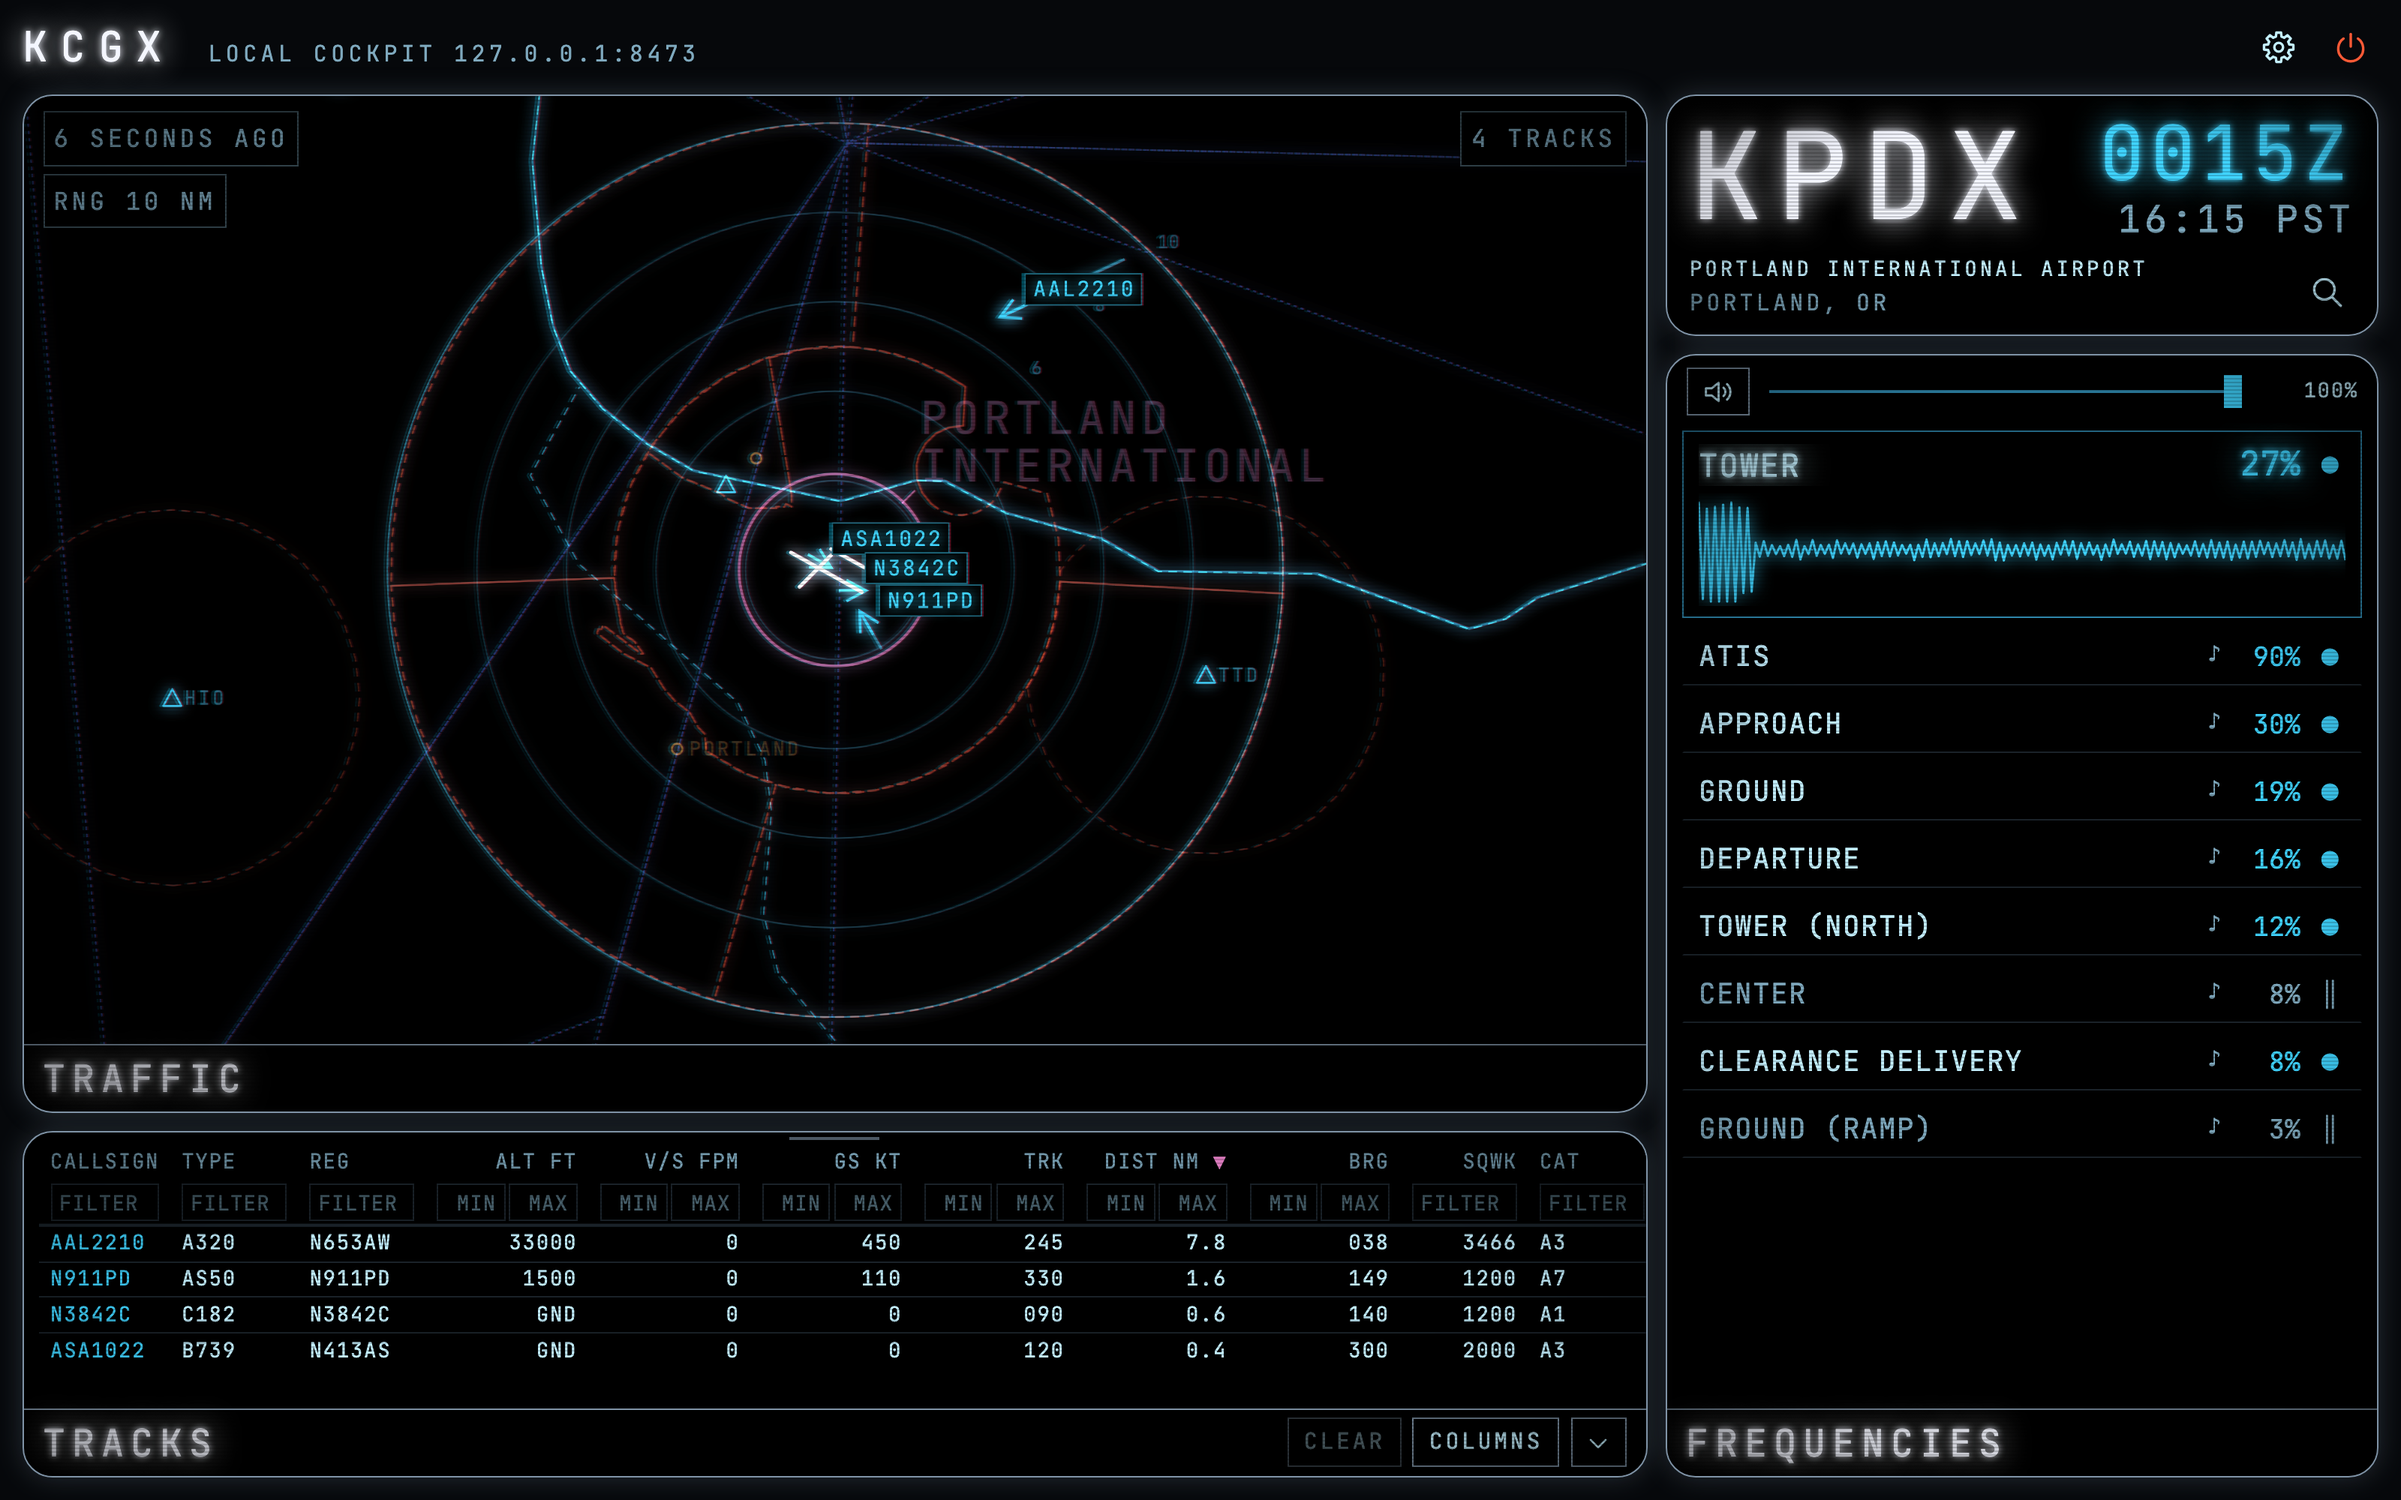
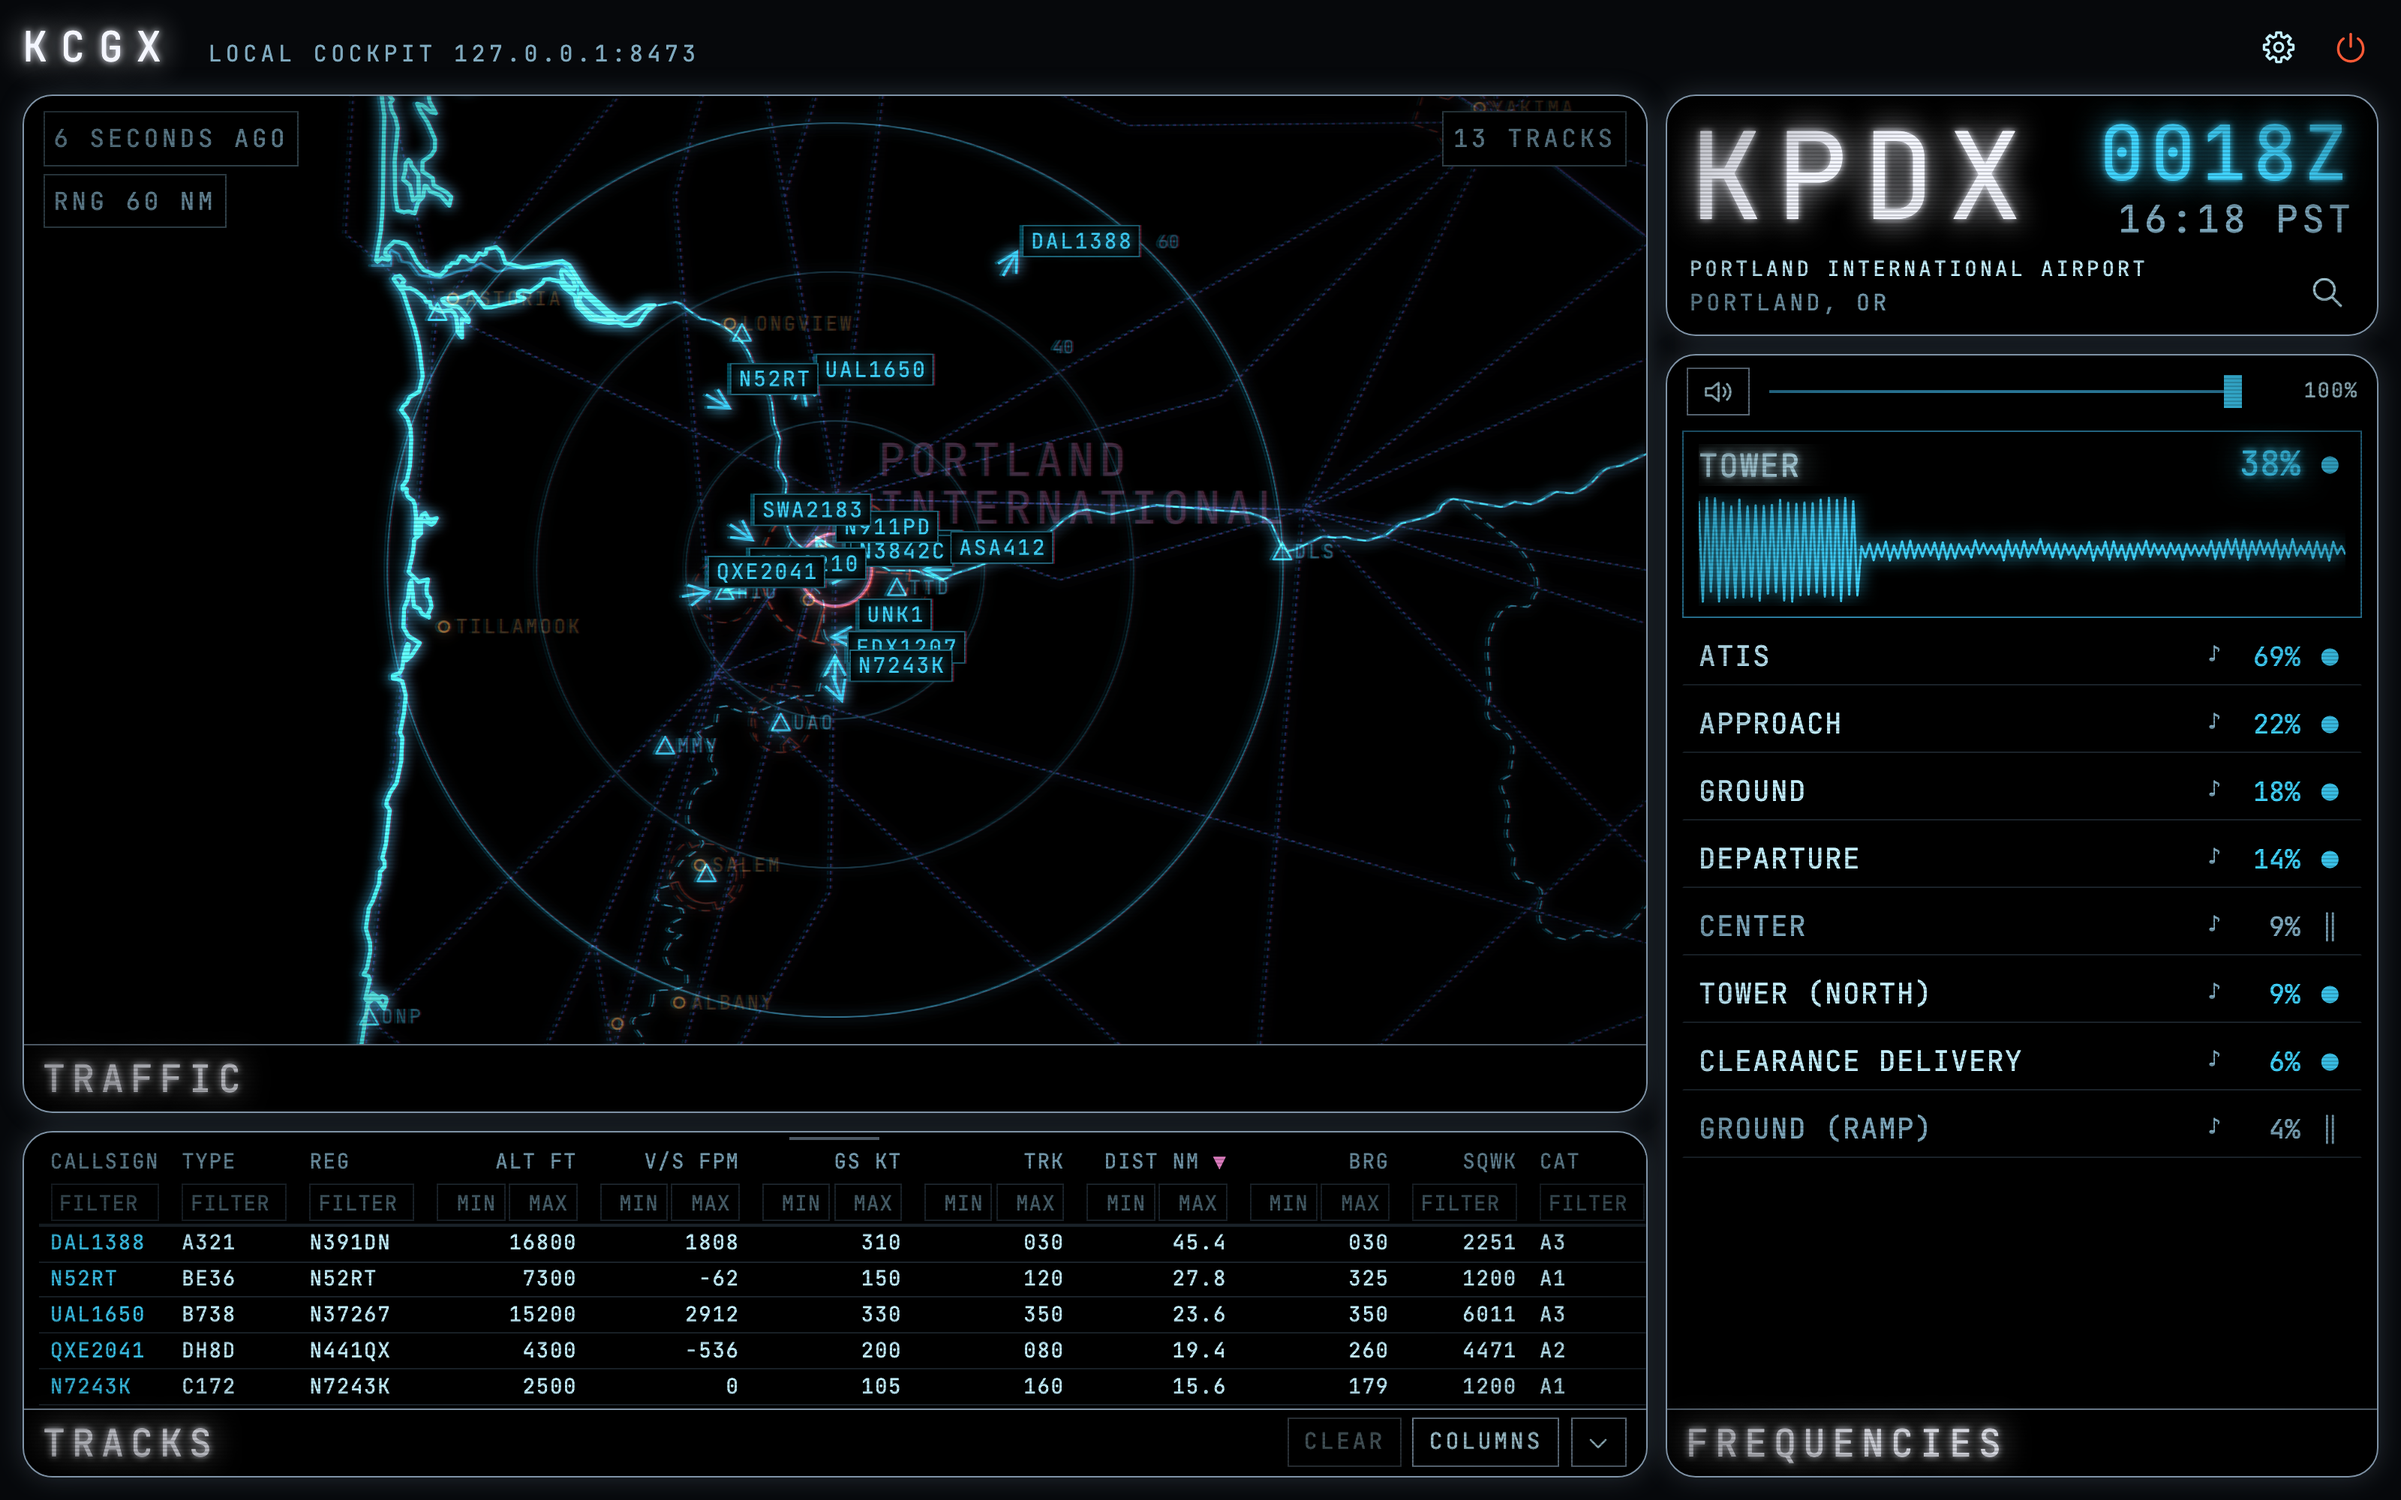
docs: the README screenshot at 60 nm, and a 1280x640 social preview

diff --git a/README.md b/README.md
@@ -5,10 +5,10 @@ own on a Mac or in your browser, named for Meigs Field — the Chicago
 lakefront strip that a generation of flight-sim pilots took off from,
 bulldozed in the middle of the night in 2003.
 
-![The kcgx cockpit at Portland (KPDX): the vector radar with four tracks, the tracks table below it, and the airport's frequencies with TOWER playing](.github/screenshot.png)
+![The kcgx cockpit at Portland (KPDX): the vector radar at 60 nm with thirteen tracks over the Oregon coast and the Columbia, the tracks table below it, and the airport's frequencies with TOWER playing](.github/screenshot.png)
 
-<sub>`kcgx --demo` at KPDX: synthetic traffic and feeds, the cockpit's own
-radar, tracks table and frequencies.</sub>
+<sub>`kcgx --demo` at KPDX, the radar at 60 nm: synthetic traffic and
+feeds, the cockpit's own radar, tracks table and frequencies.</sub>
 
 It opens **every** ATC feed an airport publishes, one metered row each,
 and plays the one you pick, beside its own vector radar of the traffic
